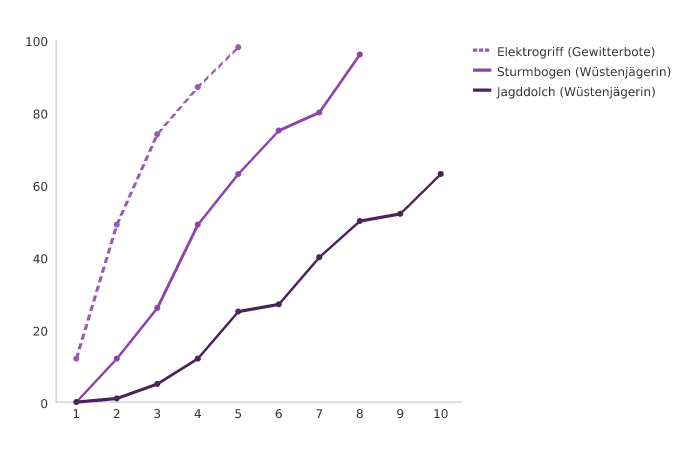
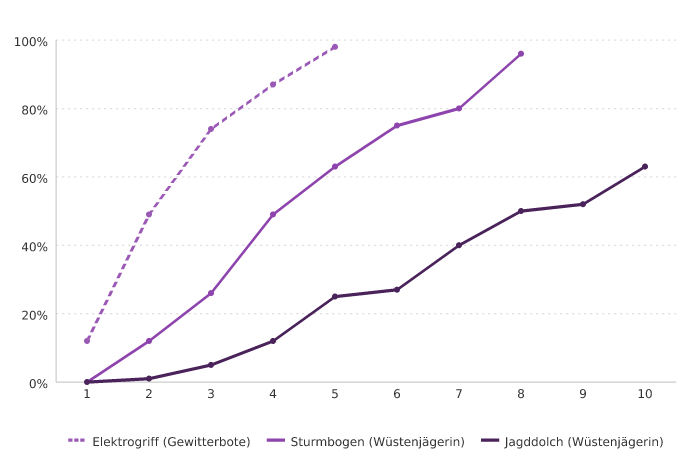
Bump version to 0.6.0, add new feature examples, and update documentation

diff --git a/README.md b/README.md
@@ -185,6 +185,124 @@ File.write!(Path.join(__DIR__, "candlestick_chart.png"), png)
 
 ![Candlestick chart example](examples/candlestick_chart.png)
 
+[examples/server_metrics_chart.exs](examples/server_metrics_chart.exs) generates a multi-series line chart with horizontal and vertical guidelines, percentage suffix, target threshold line, and a bottom horizontal legend (`mix run examples/server_metrics_chart.exs`):
+
+```elixir
+data = [
+  %{
+    name: "CPU Utilization",
+    color: "#E74C3C",
+    data: [
+      %{label: "00:00", value: 24},
+      %{label: "04:00", value: 18},
+      %{label: "08:00", value: 55},
+      %{label: "12:00", value: 88},
+      %{label: "16:00", value: 76},
+      %{label: "20:00", value: 42}
+    ]
+  },
+  %{
+    name: "Memory Usage",
+    color: "#3498DB",
+    dashed: true,
+    data: [
+      %{label: "00:00", value: 60},
+      %{label: "04:00", value: 62},
+      %{label: "08:00", value: 68},
+      %{label: "12:00", value: 85},
+      %{label: "16:00", value: 82},
+      %{label: "20:00", value: 70}
+    ]
+  },
+  %{
+    name: "Disk I/O",
+    color: "#2ECC71",
+    dotted: true,
+    data: [
+      %{label: "00:00", value: 10},
+      %{label: "04:00", value: 15},
+      %{label: "08:00", value: 35},
+      %{label: "12:00", value: 65},
+      %{label: "16:00", value: 40},
+      %{label: "20:00", value: 20}
+    ]
+  }
+]
+
+chart =
+  Plotto.LineChart.new!(
+    data,
+    title: "Server Performance (24h)",
+    suffix: "%",
+    y_max: 100,
+    y_max_guide: {:dashed, "#C0392B"},
+    y_guidelines: true,
+    x_guidelines: true,
+    legend: :bottom_center,
+    legend_orientation: :horizontal,
+    stroke_width: 3,
+    width: 700,
+    height: 450
+  )
+
+svg = Plotto.to_svg!(chart)
+png = Plotto.to_png!(chart)
+
+File.write!(Path.join(__DIR__, "server_metrics_chart.svg"), svg)
+File.write!(Path.join(__DIR__, "server_metrics_chart.png"), png)
+```
+
+![Server metrics chart example](examples/server_metrics_chart.png)
+
+[examples/sales_targets_chart.exs](examples/sales_targets_chart.exs) generates a grouped bar chart with currency prefix, magnitude suffix, target budget guideline, value labels, and a top horizontal legend (`mix run examples/sales_targets_chart.exs`):
+
+```elixir
+data = [
+  %{
+    name: "Actual Revenue",
+    data: [
+      %{label: "Q1", value: 65},
+      %{label: "Q2", value: 82},
+      %{label: "Q3", value: 95},
+      %{label: "Q4", value: 110}
+    ]
+  },
+  %{
+    name: "Target Budget",
+    data: [
+      %{label: "Q1", value: 70},
+      %{label: "Q2", value: 85},
+      %{label: "Q3", value: 90},
+      %{label: "Q4", value: 100}
+    ]
+  }
+]
+
+chart =
+  Plotto.BarChart.new!(
+    data,
+    title: "Quarterly Revenue vs Target ($k)",
+    prefix: "$",
+    suffix: "k",
+    y_max: 120,
+    y_max_guide: {:dashed, "#27AE60"},
+    y_guidelines: true,
+    label: :value,
+    legend: :top_center,
+    legend_orientation: :horizontal,
+    width: 700,
+    height: 450
+  )
+
+svg = Plotto.to_svg!(chart)
+png = Plotto.to_png!(chart)
+
+File.write!(Path.join(__DIR__, "sales_targets_chart.svg"), svg)
+File.write!(Path.join(__DIR__, "sales_targets_chart.png"), png)
+```
+
+![Sales targets chart example](examples/sales_targets_chart.png)
+
 ## Tooltips, Labels and CSS Styling
 
 Plotto charts generate clean SVG elements with standard semantic CSS classes (`plotto-chart`, `plotto-bar`, `plotto-candle`, `plotto-candle-bullish`, `plotto-candle-bearish`, `plotto-point`, `plotto-line`, `plotto-axis`, `plotto-label`, `plotto-label-bar`, `plotto-label-point`, `plotto-legend`), making it easy to style them with Tailwind, CSS variables, or dark mode themes.
@@ -246,7 +364,7 @@ The package can be installed by adding `plotto` to your list of dependencies in 
 ```elixir
 def deps do
   [
-    {:plotto, "~> 0.4.0"}
+    {:plotto, "~> 0.6.0"}
   ]
 end
 ```
